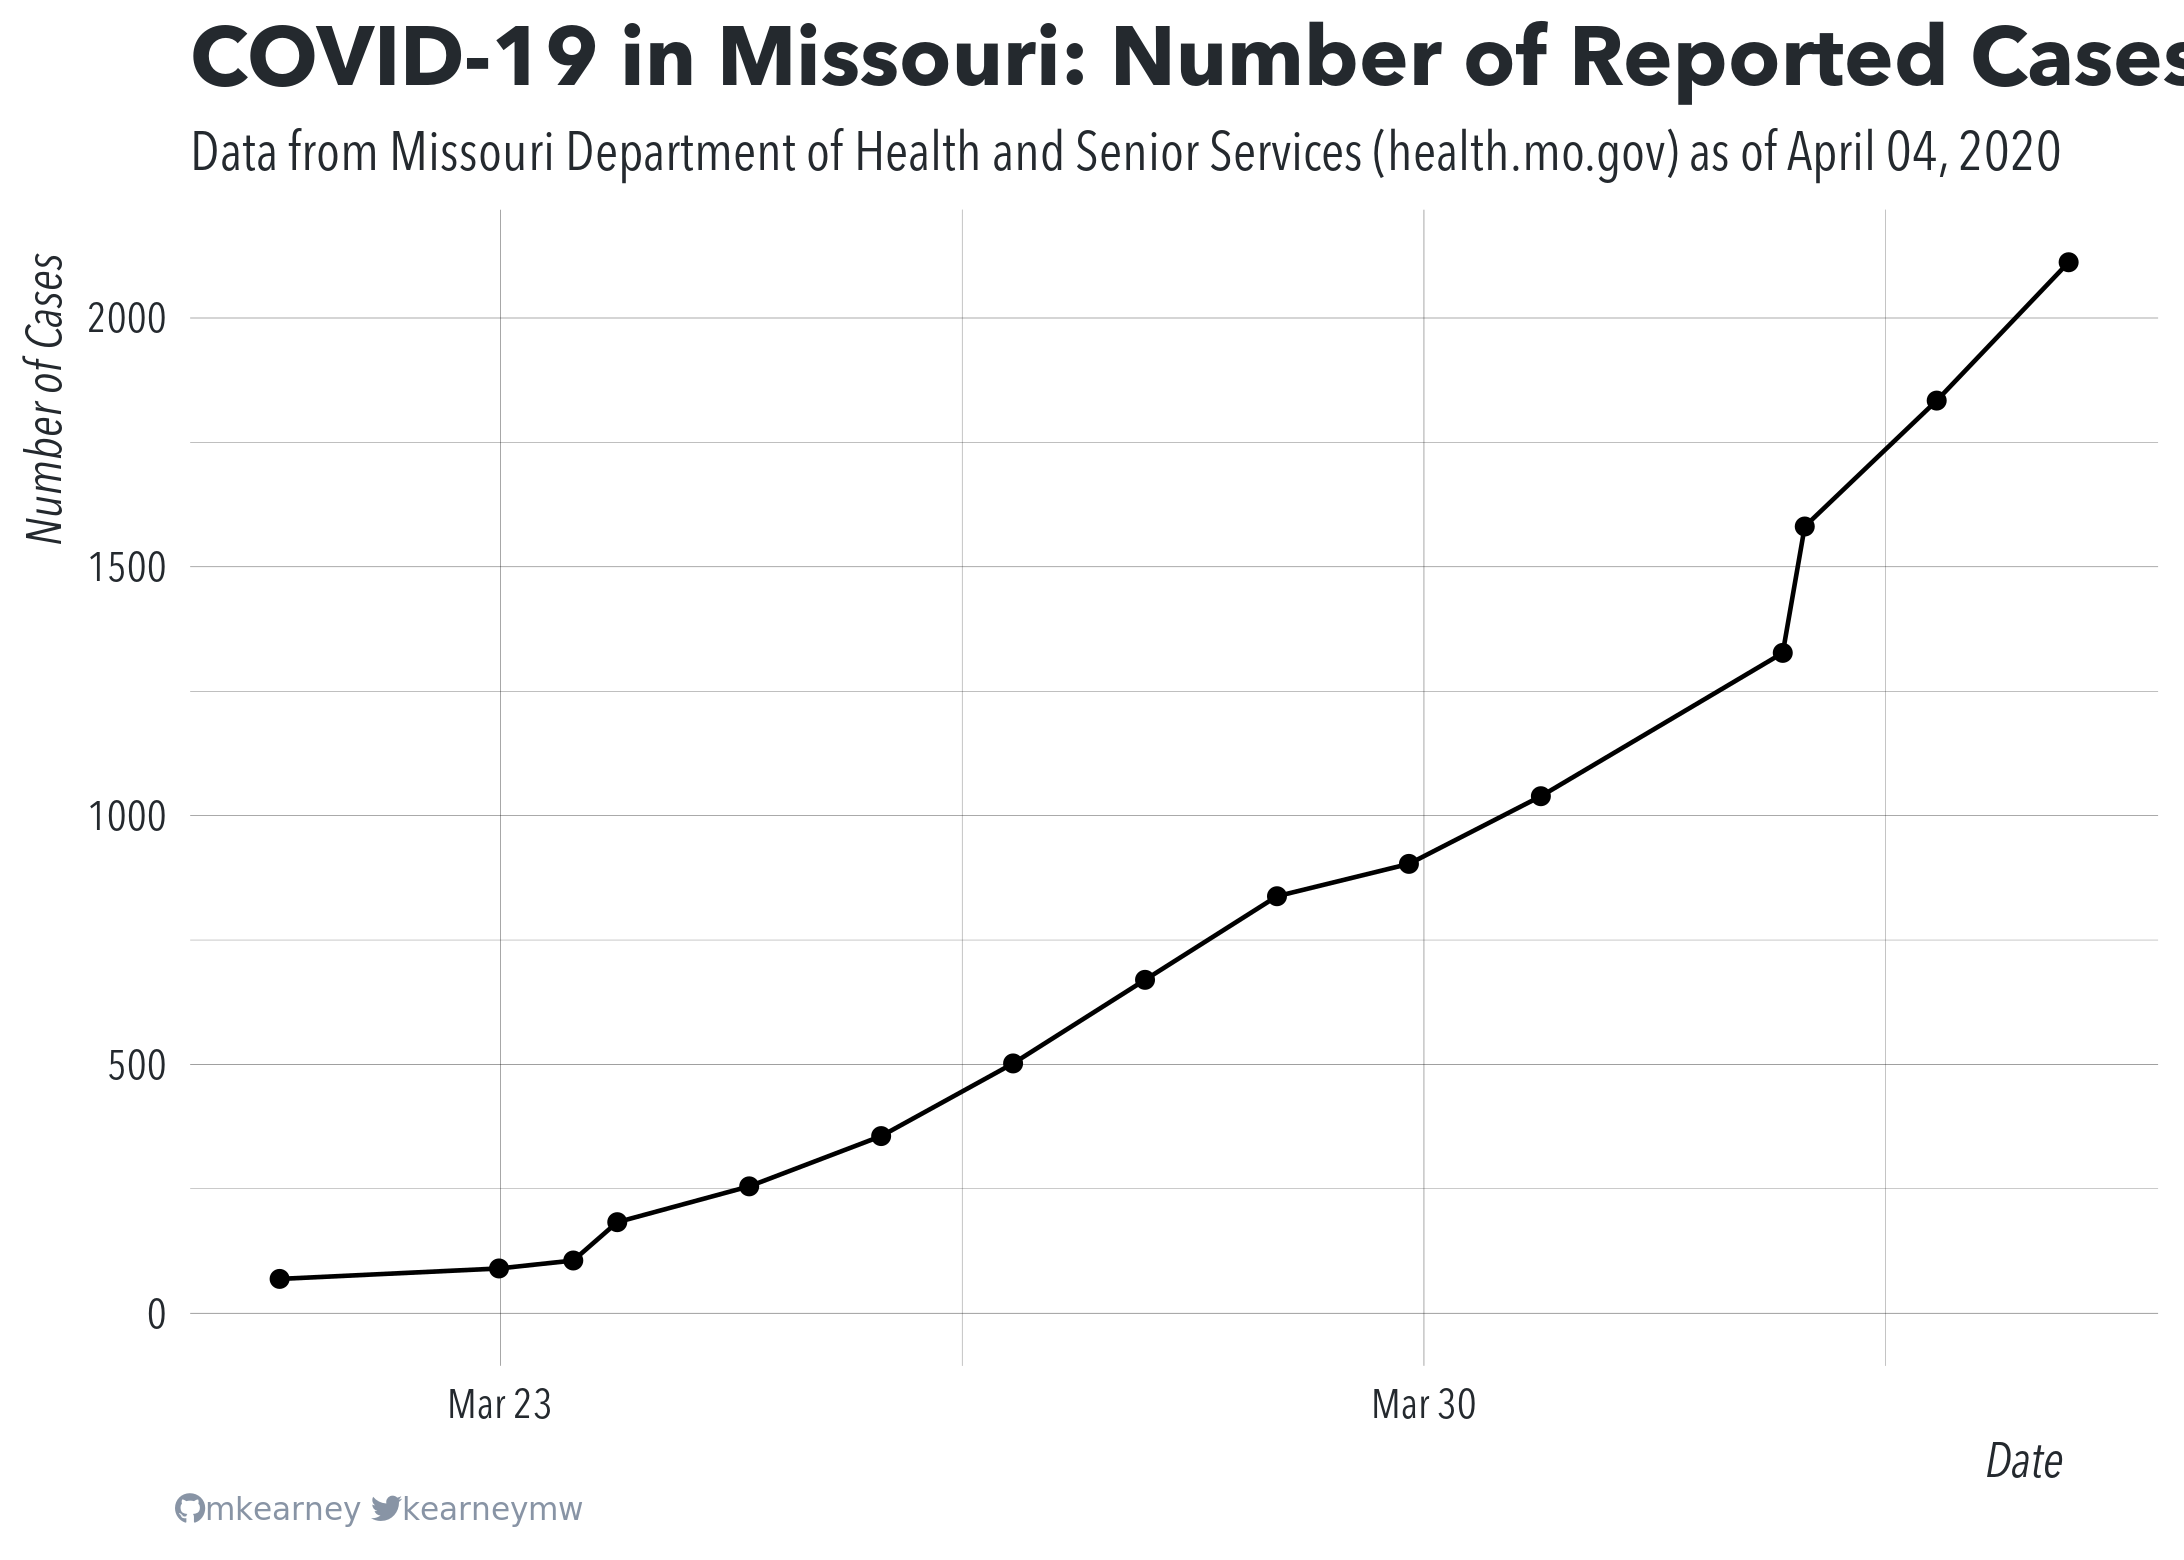
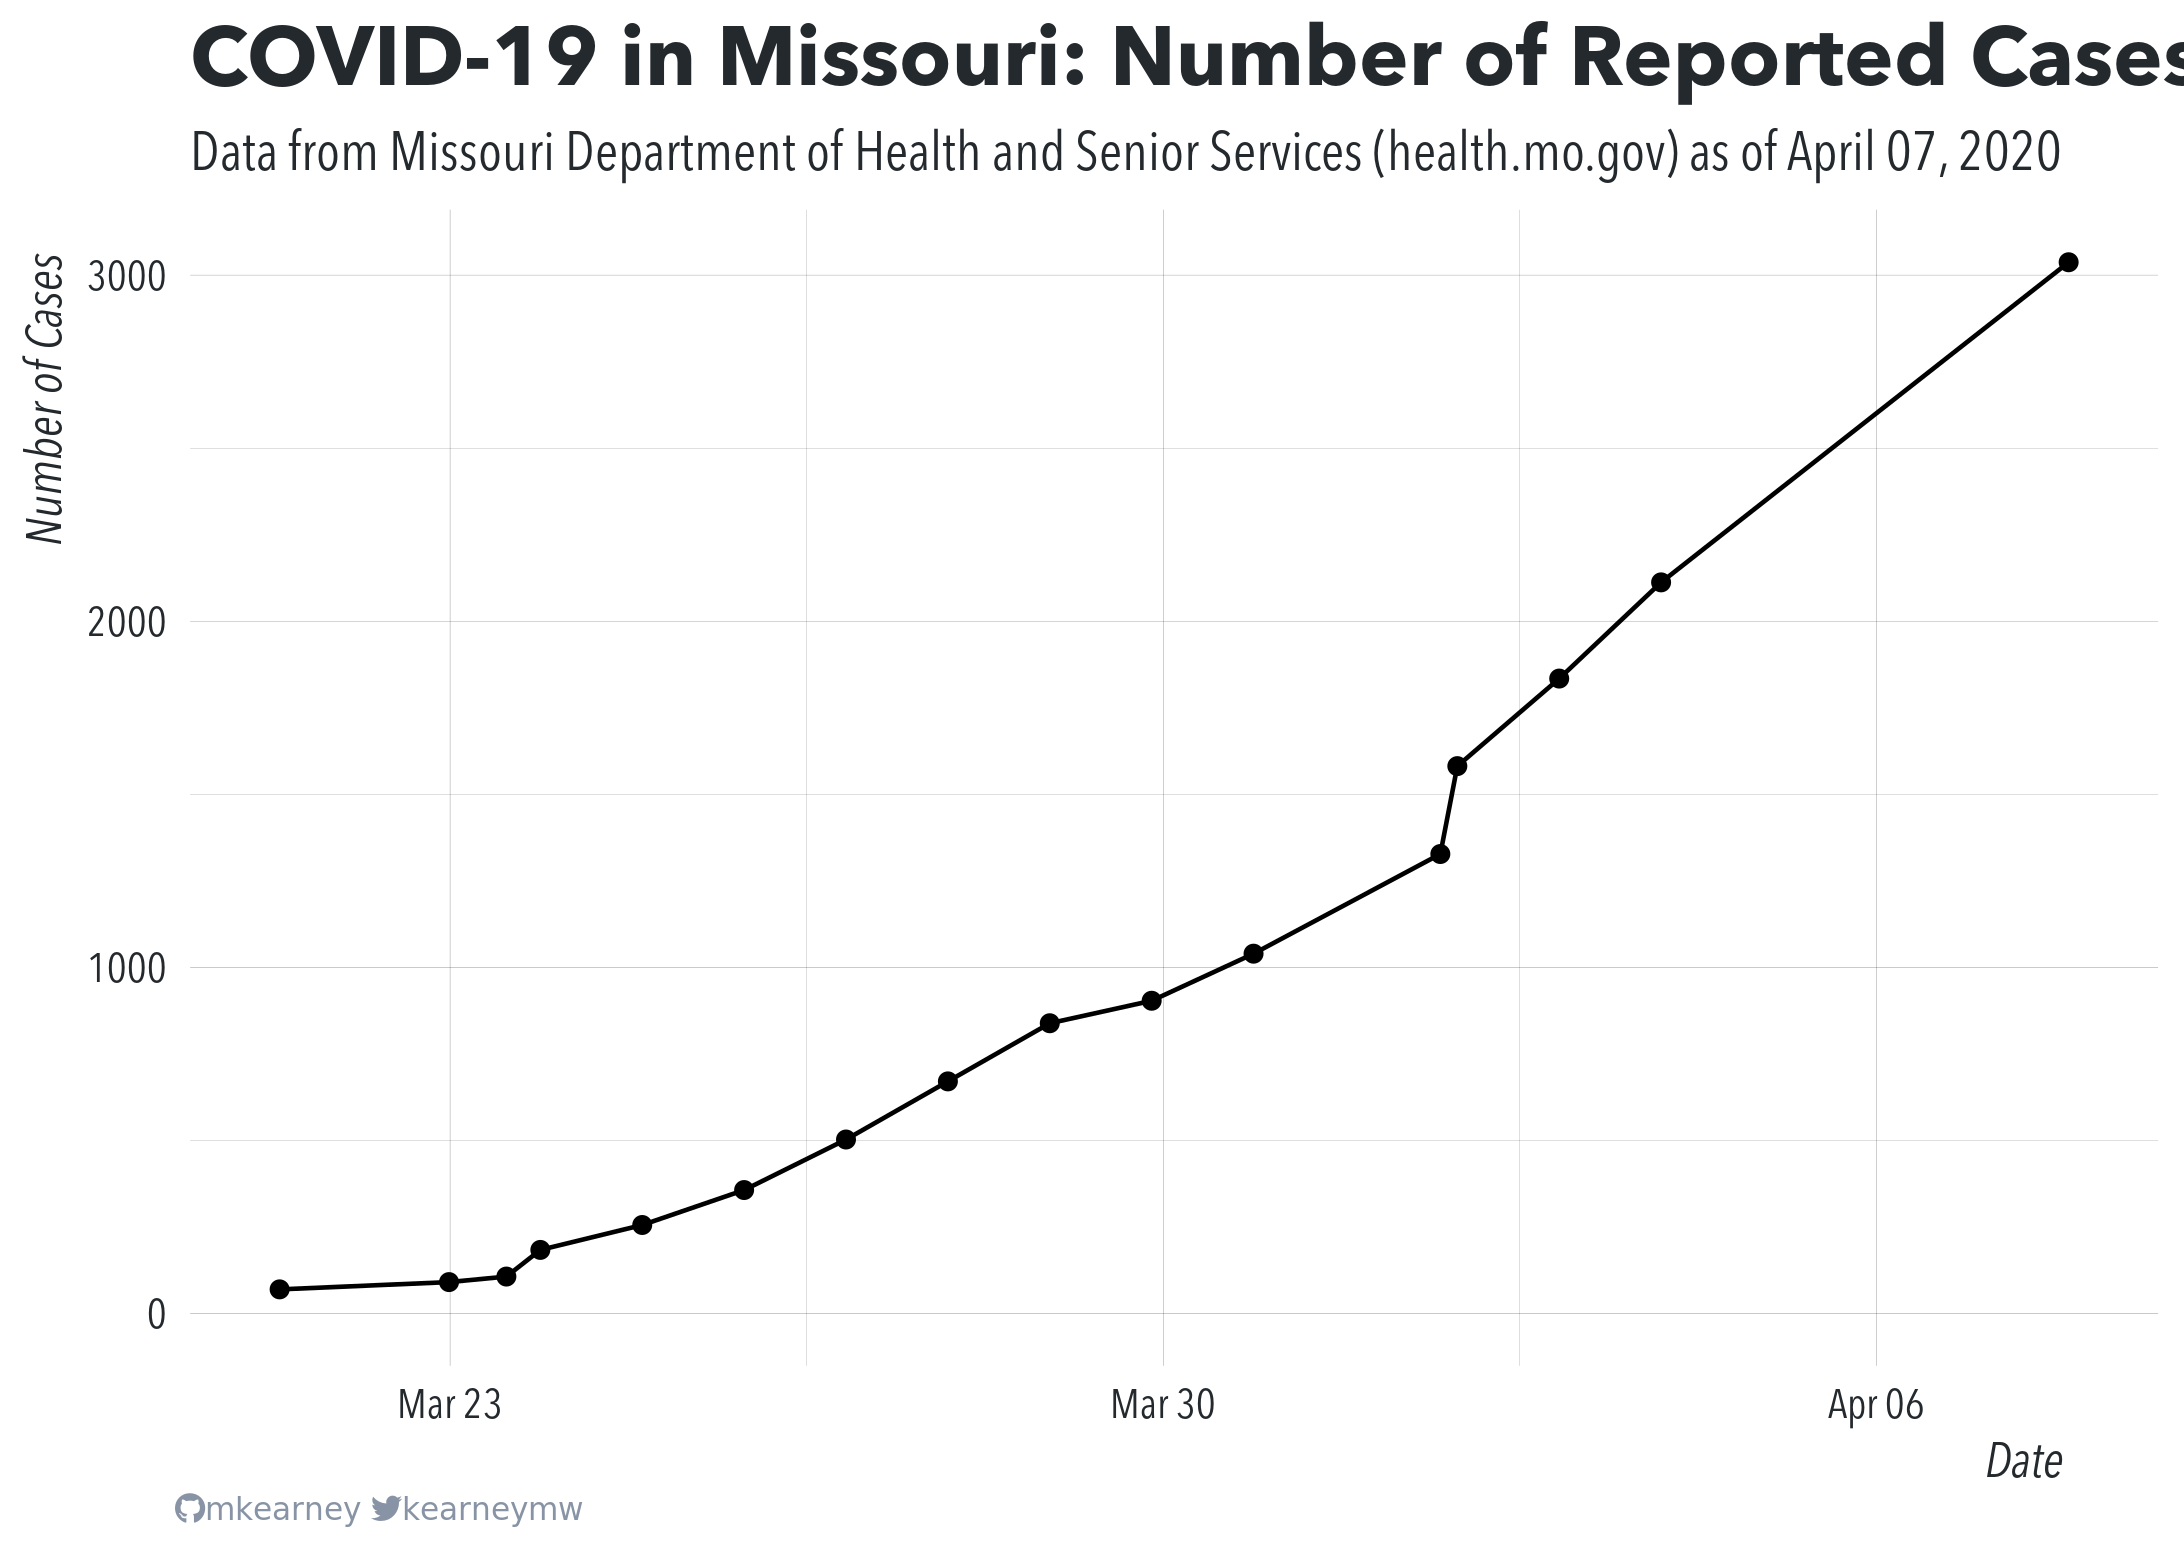
auto update

diff --git a/README.md b/README.md
@@ -25,59 +25,72 @@ at the state or county level:
 ``` r
 ## state totals daya
 suppressMessages(readr::read_csv("data/mo-total.csv"))
-#> # A tibble: 15 x 50
-#>    state state_abb total_cases state_labs other_labs ages_Boone ages_Camden
-#>    <chr> <chr>           <dbl>      <dbl>      <dbl>      <dbl>       <dbl>
-#>  1 Miss… MO               2112        160       1952          1           1
-#>  2 Miss… MO               1834        140       1694          1           1
-#>  3 Miss… MO               1581        135       1446          1           1
-#>  4 Miss… MO               1327        121       1206          1           1
-#>  5 Miss… MO               1039        124        915          1           1
-#>  6 Miss… MO                903         92        811          1           1
-#>  7 Miss… MO                838         98        740          1           1
-#>  8 Miss… MO                670         90        580          1          NA
-#>  9 Miss… MO                502         72        430          1          NA
-#> 10 Miss… MO                356         62        294          1          NA
-#> 11 Miss… MO                255         55        200         NA          NA
-#> 12 Miss… MO                183         47        136         NA          NA
-#> 13 Miss… MO                106         47         59         NA          NA
-#> 14 Miss… MO                 90         38         52         NA          NA
-#> 15 Miss… MO                 69         NA         NA         NA          NA
-#> # … with 43 more variables: ages_Cass <dbl>, ages_Greene <dbl>,
-#> #   ages_Henry <dbl>, ages_Jackson <dbl>, ages_Lafayette <dbl>, `ages_St.
-#> #   Charles County` <dbl>, `ages_St. Louis City` <dbl>, `ages_St. Louis
-#> #   County` <dbl>, transmission_under_20 <dbl>, transmission_x20_24 <dbl>,
+#> # A tibble: 16 x 81
+#>    state state_abb total_cases state_labs other_labs ages_0_20 ages_20_24
+#>    <chr> <chr>           <dbl>      <dbl>      <dbl>     <dbl>      <dbl>
+#>  1 Miss… MO               3037        211       2826        76        212
+#>  2 Miss… MO               2112        160       1952        NA         NA
+#>  3 Miss… MO               1834        140       1694        NA         NA
+#>  4 Miss… MO               1581        135       1446        NA         NA
+#>  5 Miss… MO               1327        121       1206        NA         NA
+#>  6 Miss… MO               1039        124        915        NA         NA
+#>  7 Miss… MO                903         92        811        NA         NA
+#>  8 Miss… MO                838         98        740        NA         NA
+#>  9 Miss… MO                670         90        580        NA         NA
+#> 10 Miss… MO                502         72        430        NA         NA
+#> 11 Miss… MO                356         62        294        NA         NA
+#> 12 Miss… MO                255         55        200         8         NA
+#> 13 Miss… MO                183         47        136         3         NA
+#> 14 Miss… MO                106         47         59         1         NA
+#> 15 Miss… MO                 90         38         52         1         NA
+#> 16 Miss… MO                 69         NA         NA        NA         NA
+#> # … with 74 more variables: ages_25_29 <dbl>, ages_30_34 <dbl>,
+#> #   ages_35_39 <dbl>, ages_40_44 <dbl>, ages_45_49 <dbl>, ages_50_54 <dbl>,
+#> #   ages_55_59 <dbl>, ages_60_64 <dbl>, ages_65_69 <dbl>, ages_70_74 <dbl>,
+#> #   ages_75_79 <dbl>, ages_80_plus <dbl>, ages_Unknown <dbl>,
+#> #   transmission_boone <dbl>, transmission_callaway <dbl>,
+#> #   transmission_camden <dbl>, transmission_carter <dbl>,
+#> #   transmission_cass <dbl>, transmission_clay <dbl>, transmission_cole <dbl>,
+#> #   transmission_franklin <dbl>, transmission_greene <dbl>,
+#> #   transmission_henry <dbl>, transmission_jackson <dbl>,
+#> #   transmission_kansas_city <dbl>, transmission_lafayette <dbl>,
+#> #   transmission_st_charles_county <dbl>, transmission_st_louis_city <dbl>,
+#> #   transmission_st_louis_county <dbl>, transmission_tbd <dbl>,
+#> #   .timestamp <dttm>, .last_updated <dttm>, ages_Boone <dbl>,
+#> #   ages_Camden <dbl>, ages_Cass <dbl>, ages_Greene <dbl>, ages_Henry <dbl>,
+#> #   ages_Jackson <dbl>, ages_Lafayette <dbl>, `ages_St. Charles County` <dbl>,
+#> #   `ages_St. Louis City` <dbl>, `ages_St. Louis County` <dbl>,
+#> #   transmission_under_20 <dbl>, transmission_x20_24 <dbl>,
 #> #   transmission_x25_29 <dbl>, transmission_x30_34 <dbl>,
 #> #   transmission_x35_39 <dbl>, transmission_x40_44 <dbl>,
 #> #   transmission_x45_49 <dbl>, transmission_x50_54 <dbl>,
 #> #   transmission_x55_59 <dbl>, transmission_x60_64 <dbl>,
 #> #   transmission_x65_69 <dbl>, transmission_x70_74 <dbl>,
 #> #   transmission_x75_79 <dbl>, transmission_x80 <dbl>,
-#> #   transmission_unknown <dbl>, .timestamp <dttm>, .last_updated <dttm>,
-#> #   `ages_St. Charles` <dbl>, transmission_x20_29 <dbl>,
-#> #   transmission_x30_39 <dbl>, transmission_x40_49 <dbl>,
-#> #   transmission_x50_59 <dbl>, transmission_x60_69 <dbl>,
-#> #   transmission_x70 <dbl>, ages_0_20 <dbl>, ages_20_29 <dbl>,
+#> #   transmission_unknown <dbl>, `ages_St. Charles` <dbl>,
+#> #   transmission_x20_29 <dbl>, transmission_x30_39 <dbl>,
+#> #   transmission_x40_49 <dbl>, transmission_x50_59 <dbl>,
+#> #   transmission_x60_69 <dbl>, transmission_x70 <dbl>, ages_20_29 <dbl>,
 #> #   ages_30_39 <dbl>, ages_40_49 <dbl>, ages_50_59 <dbl>, ages_60_69 <dbl>,
 #> #   ages_70_plus <dbl>, transmission_travel <dbl>, transmission_contact <dbl>,
 #> #   transmission_no_known_contact <dbl>, transmission_no_contact <dbl>
 
 ## county data
 suppressMessages(readr::read_csv("data/mo-county.csv"))
-#> # A tibble: 4,251 x 6
+#> # A tibble: 4,369 x 6
 #>    county    total state_lab other_lab  fips timestamp          
 #>    <chr>     <dbl>     <dbl>     <dbl> <dbl> <dttm>             
-#>  1 Adair         8         0         8 29001 2020-04-04 17:16:01
-#>  2 Andrew        0         0         0 29003 2020-04-04 17:16:01
-#>  3 Atchison      1         1         0 29005 2020-04-04 17:16:01
-#>  4 Audrain       0         0         0 29007 2020-04-04 17:16:01
-#>  5 Barry         1         0         1 29009 2020-04-04 17:16:01
-#>  6 Barton        0         0         0 29011 2020-04-04 17:16:01
-#>  7 Bates         3         0         3 29013 2020-04-04 17:16:01
-#>  8 Benton        3         0         3 29015 2020-04-04 17:16:01
-#>  9 Bollinger     1         0         1 29017 2020-04-04 17:16:01
-#> 10 Boone        74         3        71 29019 2020-04-04 17:16:01
-#> # … with 4,241 more rows
+#>  1 Adair        11         0        11 29001 2020-04-07 21:16:01
+#>  2 Andrew        0         0         0 29003 2020-04-07 21:16:01
+#>  3 Atchison      1         1         0 29005 2020-04-07 21:16:01
+#>  4 Audrain       0         0         0 29007 2020-04-07 21:16:01
+#>  5 Barry         1         0         1 29009 2020-04-07 21:16:01
+#>  6 Barton        0         0         0 29011 2020-04-07 21:16:01
+#>  7 Bates         3         0         3 29013 2020-04-07 21:16:01
+#>  8 Benton        3         0         3 29015 2020-04-07 21:16:01
+#>  9 Bollinger     2         0         2 29017 2020-04-07 21:16:01
+#> 10 Boone        77         5        72 29019 2020-04-07 21:16:01
+#> # … with 4,359 more rows
 ```
 
 ![](img/timeseries.png)
